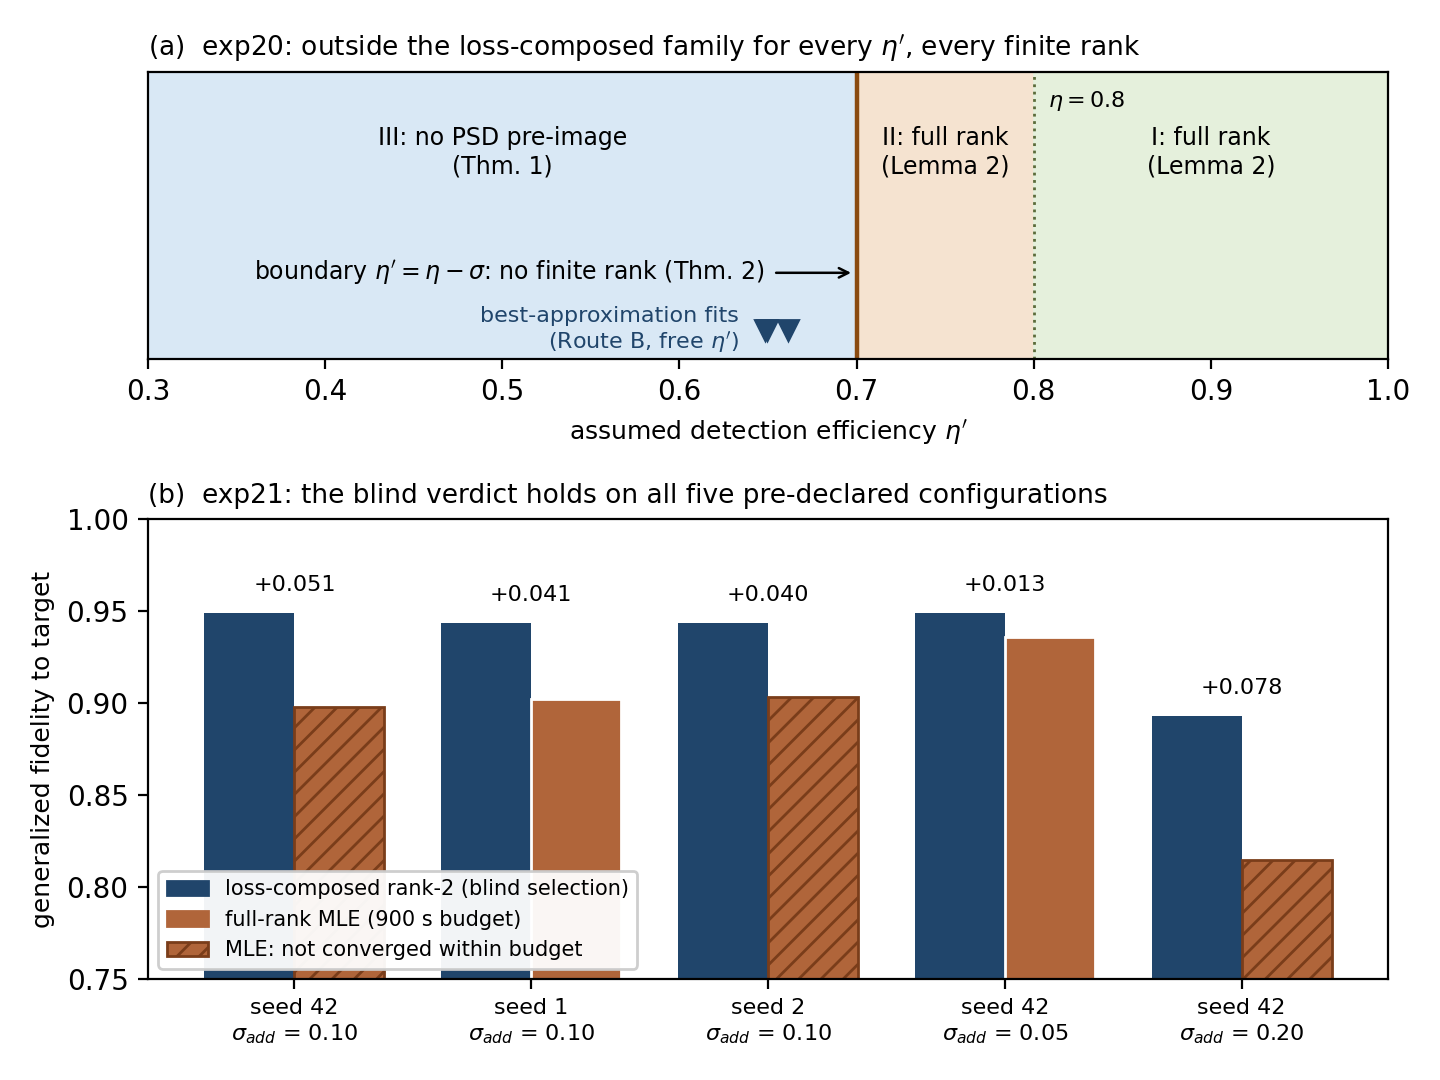
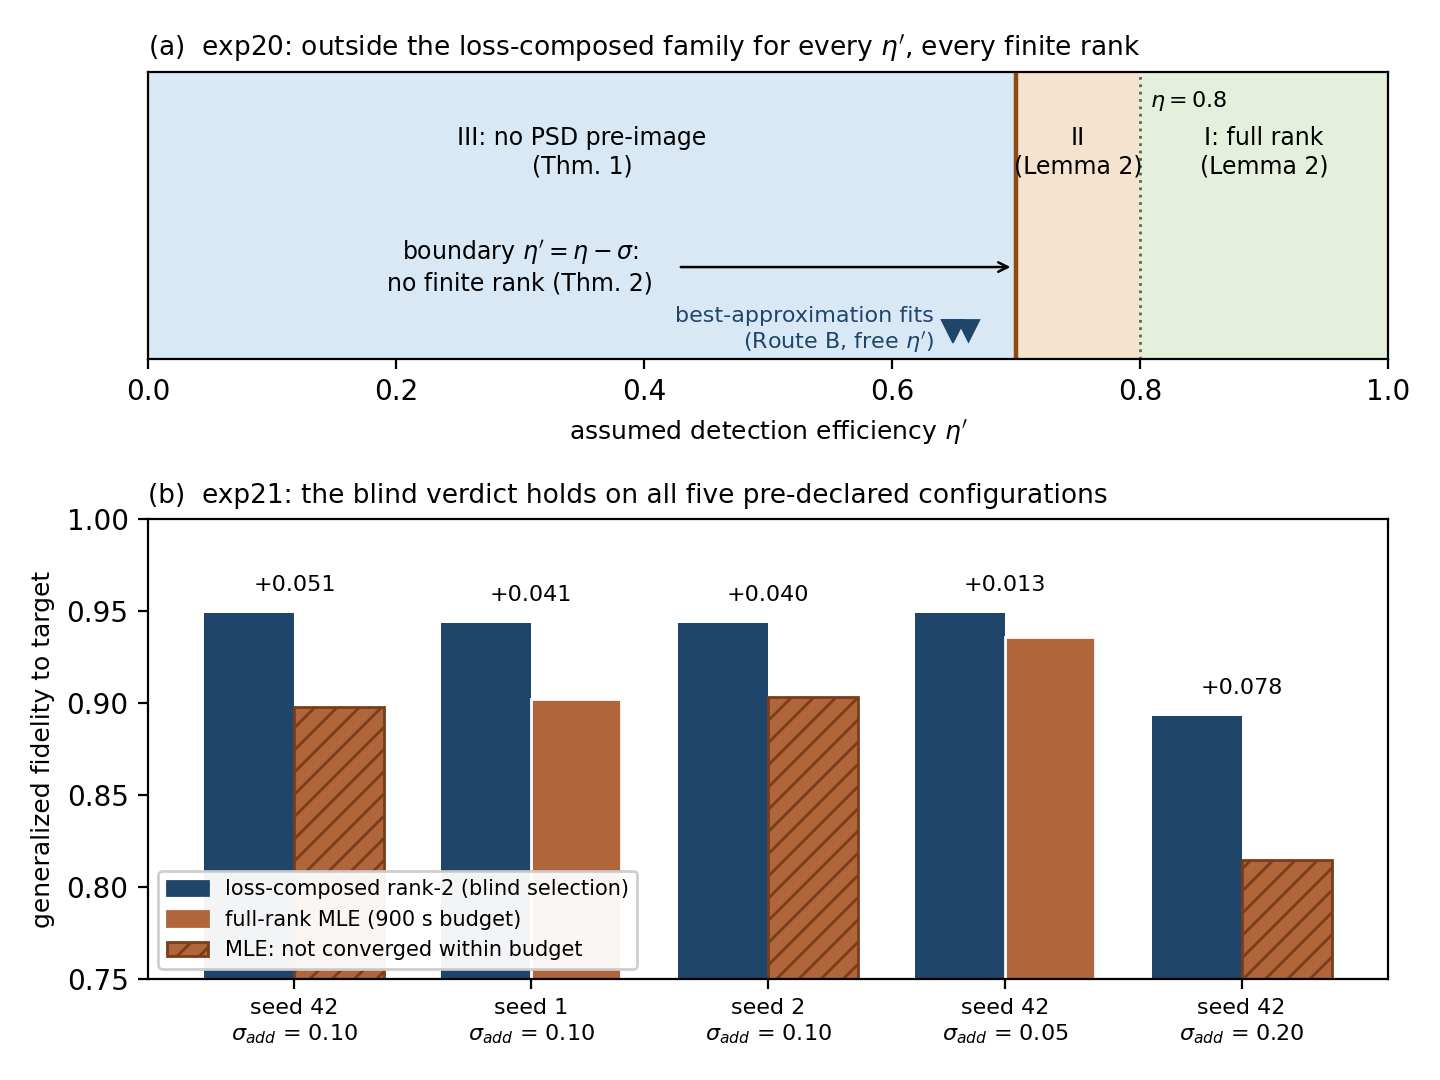
docs(#69 figure review): eta/sigma from results data, verdict assertion, full (0,1] domain

diff --git a/docs/preprint/make_summary_figure.py b/docs/preprint/make_summary_figure.py
@@ -24,16 +24,16 @@ from matplotlib.patches import Patch
 ROOT = pathlib.Path(__file__).resolve().parents[2]
 OUT = pathlib.Path(__file__).resolve().parent / "summary_figure.png"
 
-# exp20 constants (experiments/20_noninclusion/run.py)
-ETA = 0.8
-SIGMA = 0.1
-ETA_CRIT = ETA - SIGMA  # 0.70
-
 # Route B fitted eta' (experiments/20_noninclusion/results_routeB.json):
 # per rank K, the best-F squeezed-family fit at the largest scoring cutoff.
 routeB = json.loads(
     (ROOT / "experiments/20_noninclusion/results_routeB.json").read_text()
 )
+
+# exp20 constants, from the committed result data (single source of truth)
+ETA = routeB["params"]["eta"]
+SIGMA = routeB["params"]["sigma"]
+ETA_CRIT = ETA - SIGMA  # 0.70
 rows = routeB["squeezed"]
 n_max = max(r["n_score"] for r in rows)
 routeB_etas = [
@@ -50,6 +50,12 @@ sweep = json.loads(
 )
 configs = sweep["configs"]
 
+# The panel-(b) title states the verdict -- derive it from the data so a
+# regenerated figure cannot silently keep a stale claim.
+ruling = sweep["ruling"]
+assert ruling["holds"] == ruling["total"] == len(configs) == 5, ruling
+assert all(c["verdict_lossy_ge_mle"] for c in configs), "verdict flag flipped"
+
 fig, (ax_a, ax_b) = plt.subplots(
     2, 1, figsize=(7.2, 5.4), gridspec_kw={"height_ratios": [1.0, 1.6]}
 )
@@ -57,10 +63,10 @@ fig, (ax_a, ax_b) = plt.subplots(
 # ---------------------------------------------------------------- panel (a)
 REGIONS = [
     (0.0, ETA_CRIT, "#d9e8f5", "III: no PSD pre-image\n(Thm. 1)"),
-    (ETA_CRIT, ETA, "#f5e3d0", "II: full rank\n(Lemma 2)"),
+    (ETA_CRIT, ETA, "#f5e3d0", "II\n(Lemma 2)"),
     (ETA, 1.0, "#e5f0dc", "I: full rank\n(Lemma 2)"),
 ]
-XMIN = 0.3  # left edge of the plotted eta' window
+XMIN = 0.0  # full theorem domain (0, 1]
 for x0, x1, color, label in REGIONS:
     ax_a.axvspan(x0, x1, color=color)
     ax_a.text(
@@ -70,12 +76,13 @@ for x0, x1, color, label in REGIONS:
 
 ax_a.axvline(ETA_CRIT, color="#8a4a10", lw=1.6)
 ax_a.annotate(
-    "boundary $\\eta' = \\eta - \\sigma$: no finite rank (Thm. 2)",
-    xy=(ETA_CRIT, 0.30),
-    xytext=(0.36, 0.30),
+    "boundary $\\eta' = \\eta - \\sigma$:\nno finite rank (Thm. 2)",
+    xy=(ETA_CRIT, 0.32),
+    xytext=(0.30, 0.32),
     fontsize=8.5,
+    ha="center",
     va="center",
-    arrowprops=dict(arrowstyle="->", lw=0.9),
+    arrowprops=dict(arrowstyle="->", lw=0.9, shrinkA=8),
 )
 ax_a.axvline(ETA, color="#5b6b3a", lw=1.0, ls=":")
 ax_a.text(ETA + 0.008, 0.94, "$\\eta = 0.8$", ha="left", va="top", fontsize=8)
@@ -92,7 +99,7 @@ ax_a.text(
     color="#20456b",
 )
 
-ax_a.set_xlim(0.3, 1.0)
+ax_a.set_xlim(0.0, 1.0)
 ax_a.set_ylim(0, 1)
 ax_a.set_yticks([])
 ax_a.set_xlabel("assumed detection efficiency $\\eta'$", fontsize=9)